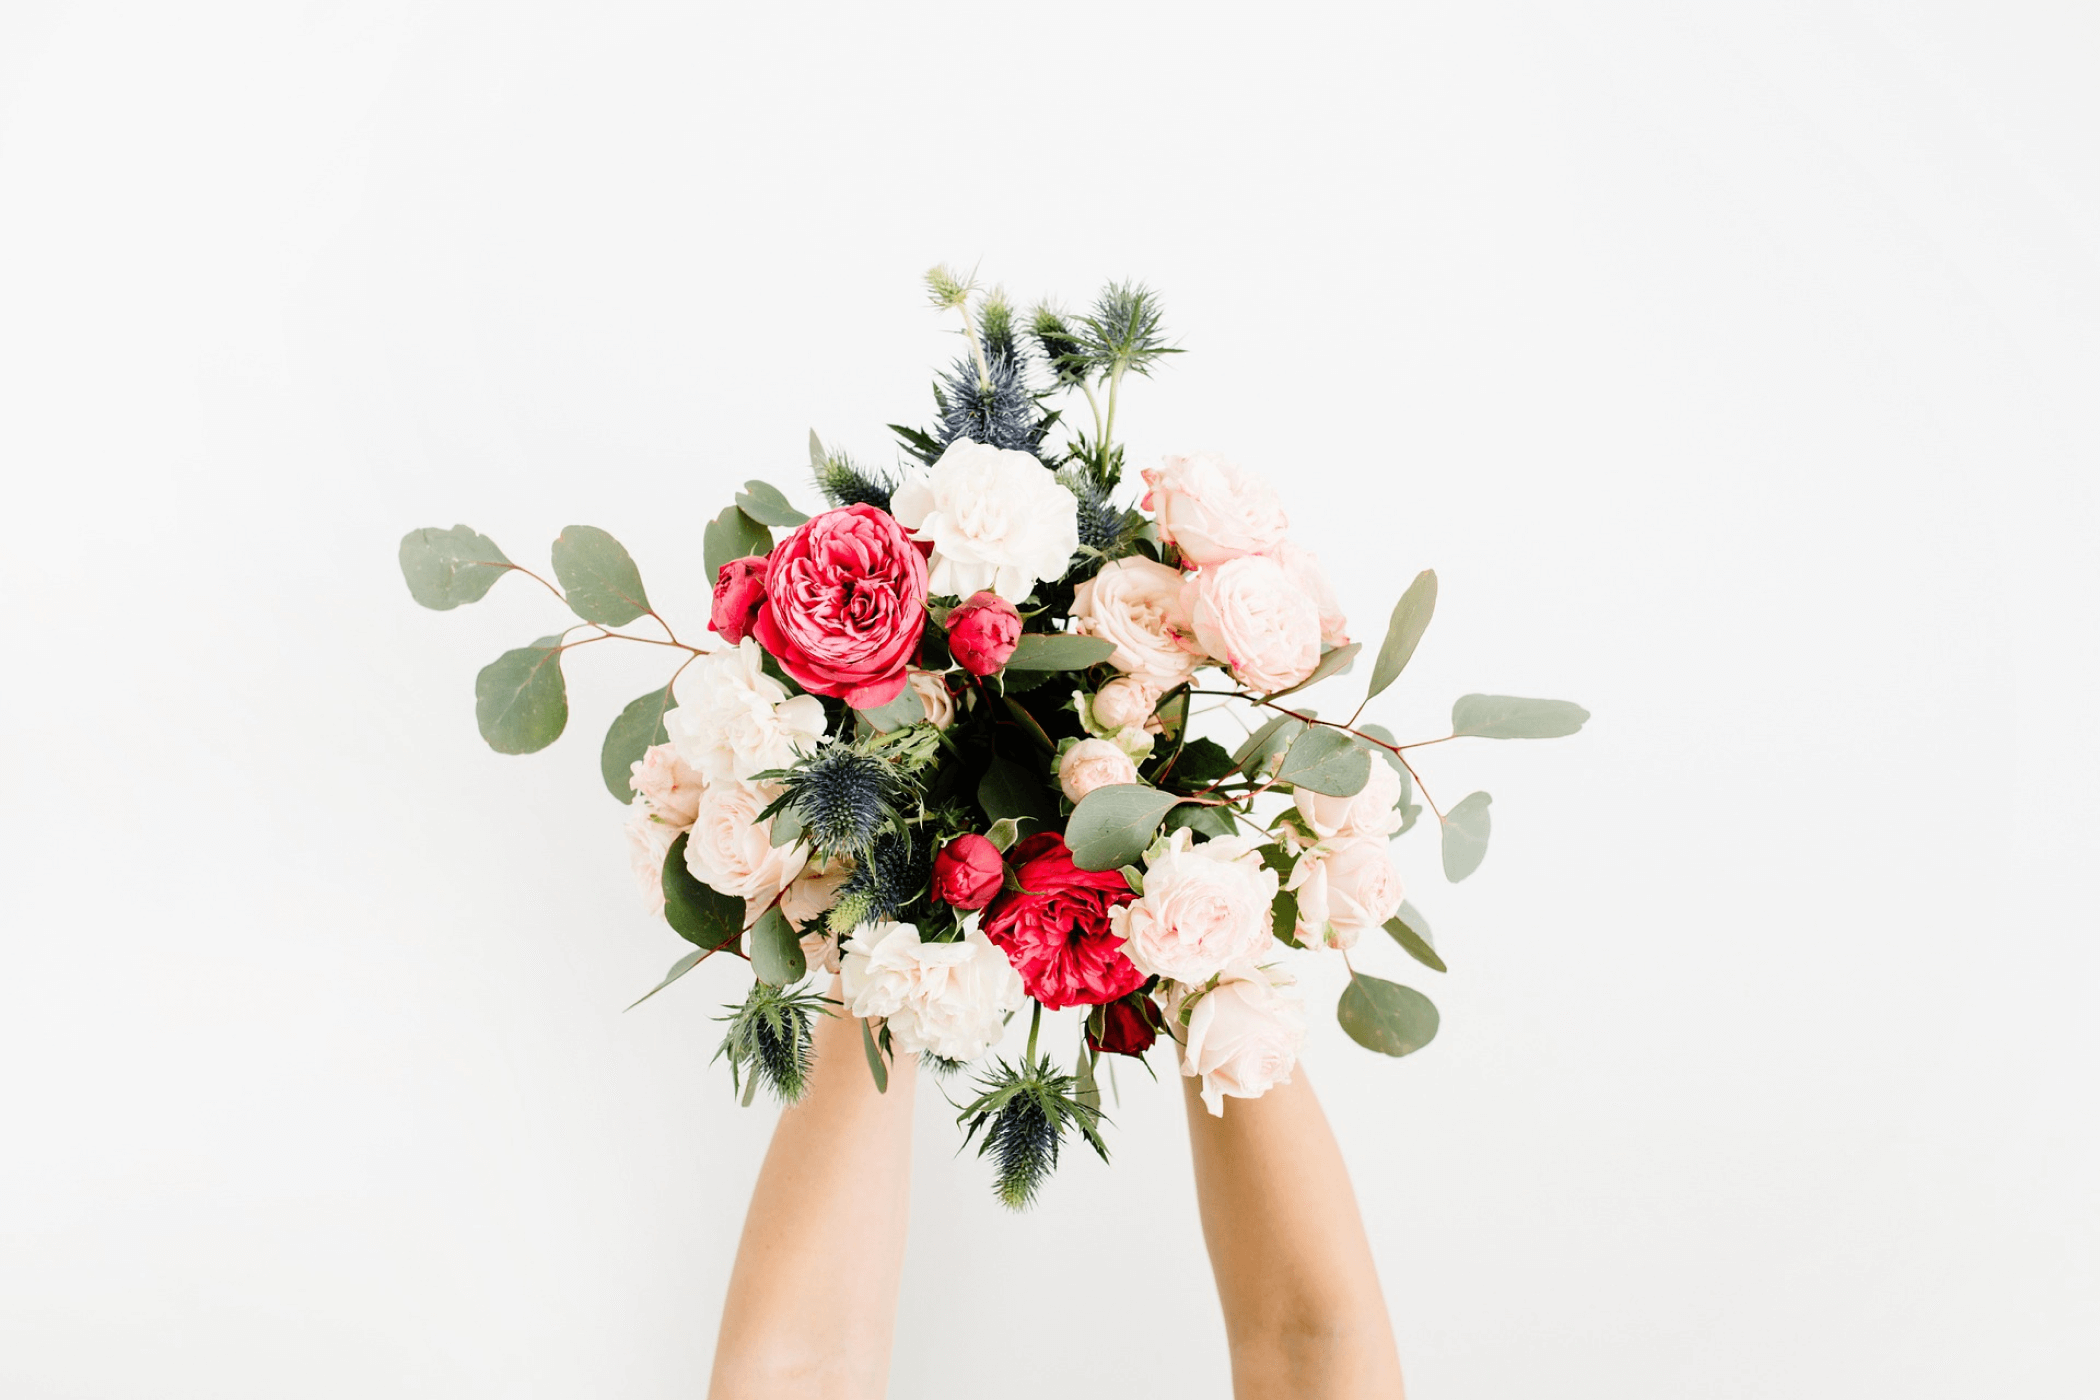
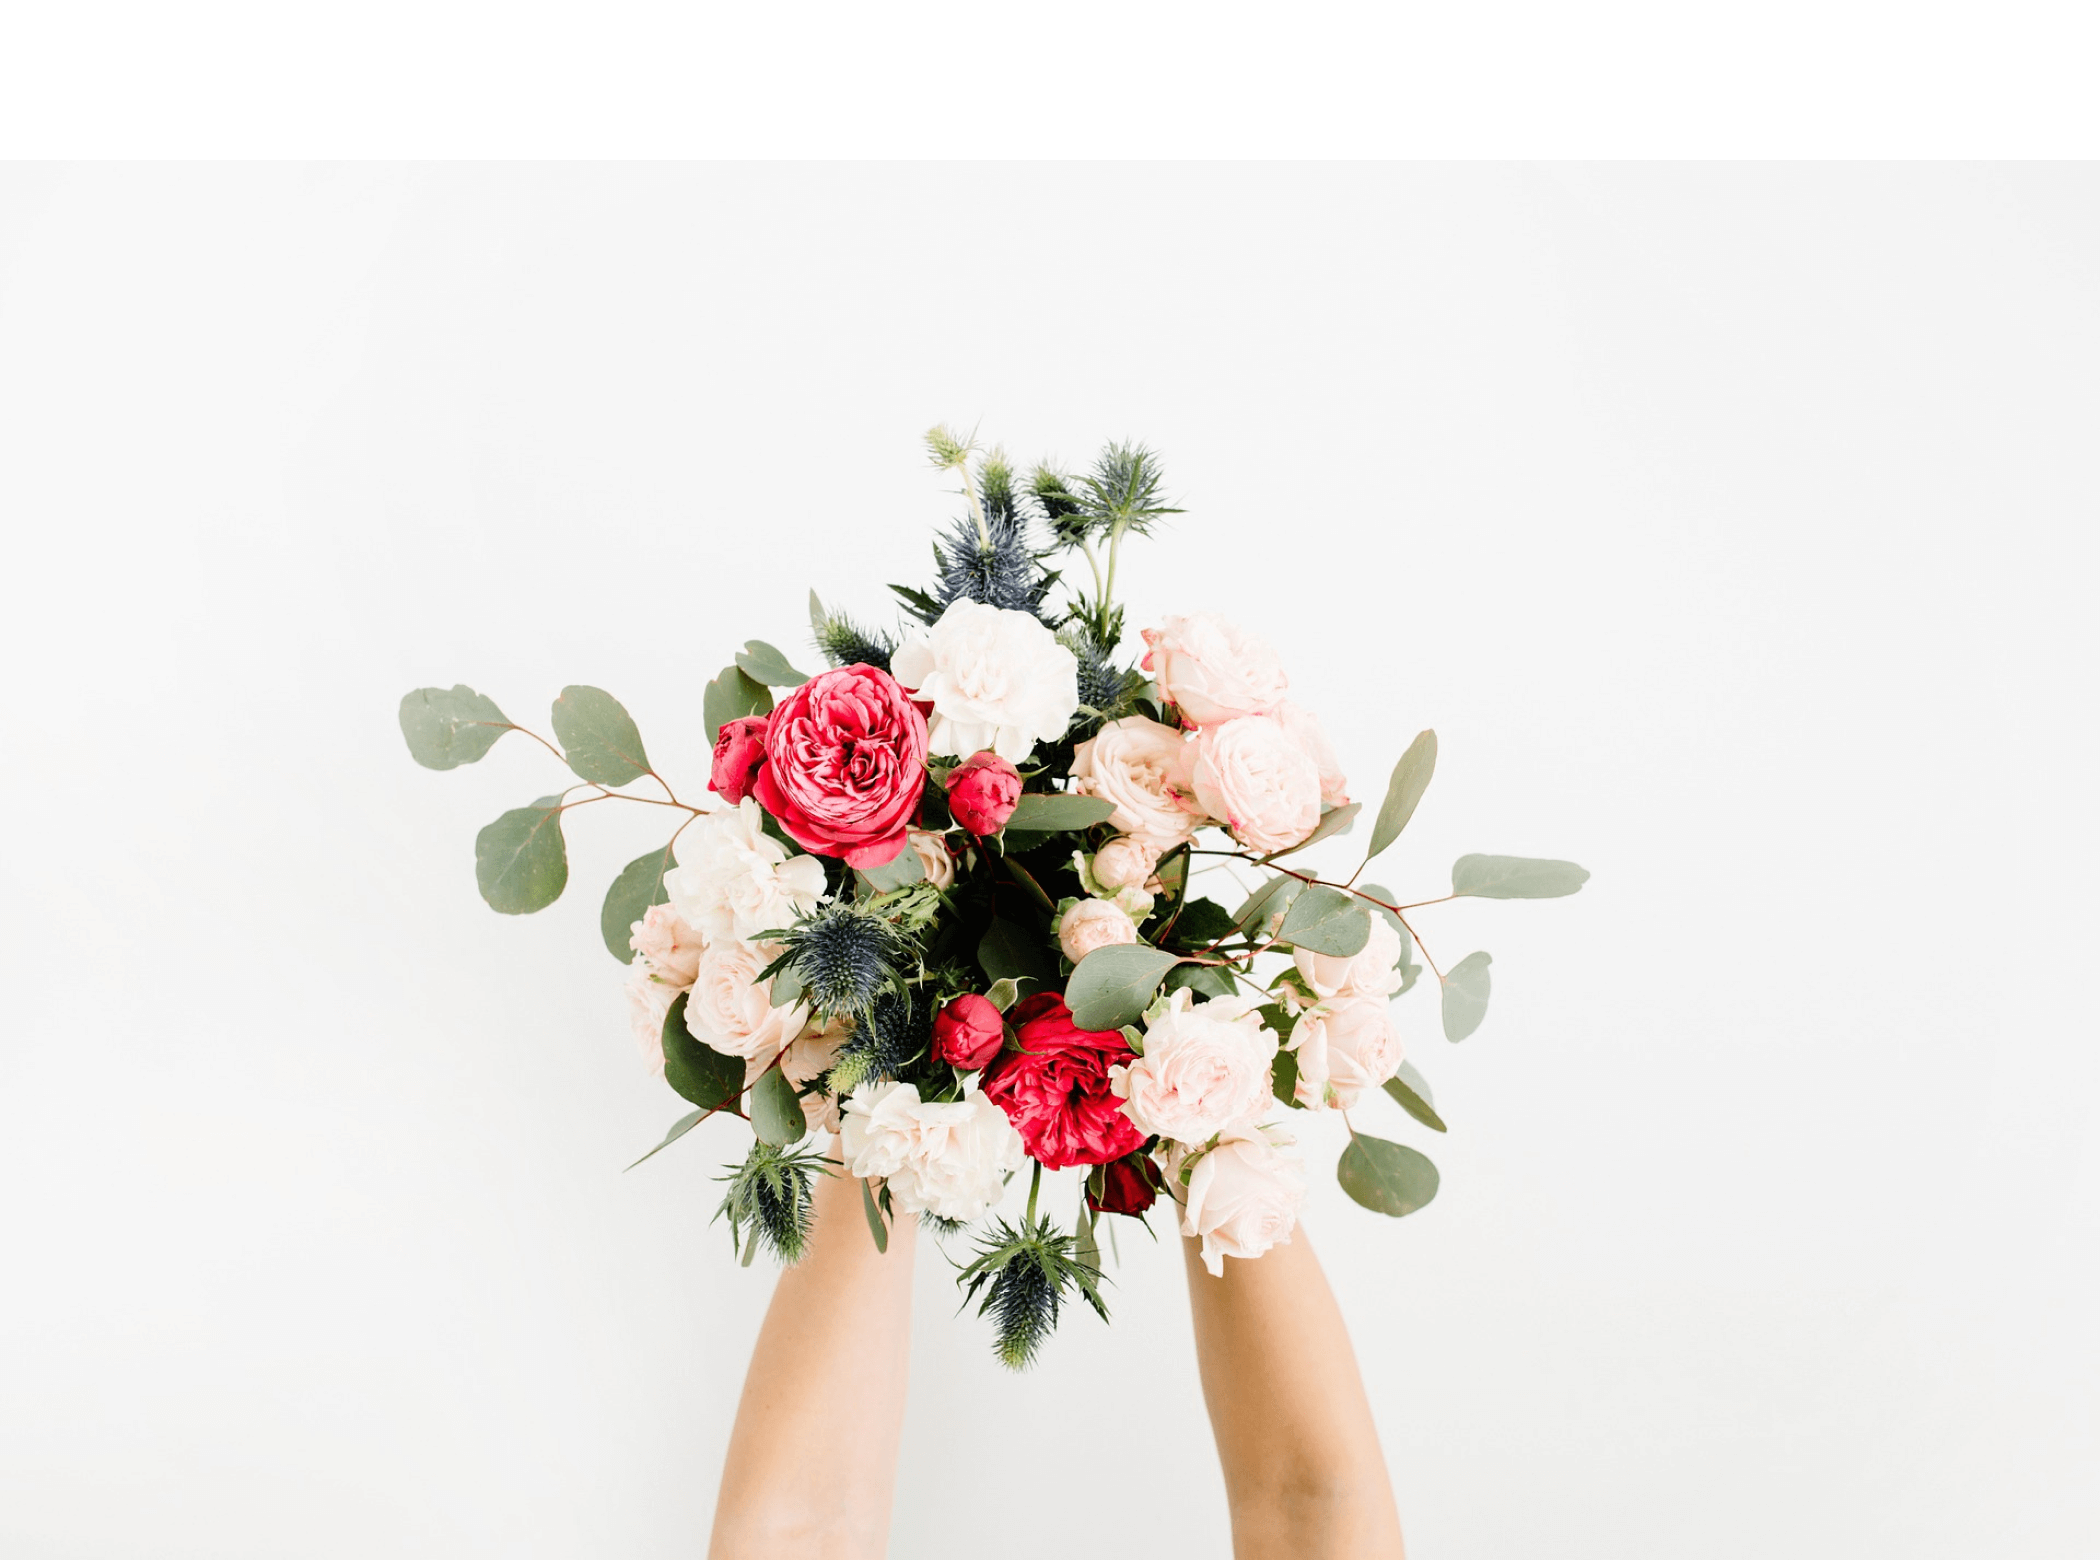
fix-fv

Changed region(s): [[0.1857, 0.1843, 0.7738, 0.8907]]

diff --git a/dev/src/sass/object/project/_fv.scss b/dev/src/sass/object/project/_fv.scss
@@ -11,7 +11,6 @@
 
   @include m.mq("pc") {
     padding: 0;
-    margin-top: -80px;
   }
 
   &__message {
@@ -19,9 +18,8 @@
 
     @include m.mq("pc") {
       position: absolute;
-      top: 50%;
-      transform: translateY(-50%);
-      left: calc(881 / 1440 * 100%);
+      top: calc(283 / 780 * 100%);
+      left: calc(880 / 1440 * 100%);
     }
   }
 
@@ -69,81 +67,26 @@
     font-size: 22px;
     font-weight: 300;
     line-height: normal;
+
+    @include m.mq('pc') {
+      margin-top: 47px;
+      font-size: 30px;
+    }
   }
 
   &__picture {
     margin-top: 37px;
     padding-top: calc(329 / 375 * 100%);
-    background: url(../img/fv-flower.png) no-repeat center center / cover;
+    background: url(../../../../../assets/img/fv-flower.png) no-repeat center center / cover;
 
     @include m.mq("pc") {
-      margin-top: 0;
-      padding-top: calc(700 / 1440 * 100%);
-      background: url(../img/fv-flower.png) no-repeat top left /
-        calc(1050 / 1400 * 100%);
+      margin-top: -160px;
+      padding-top: calc(780 / 1440 * 100%);
+      background: url(../../../../../assets/img/fv-flower.png) no-repeat top left /
+        calc(1050 / 1440 * 100%);
     }
   }
 
-  &__button {
-    margin-top: 37px;
-    text-align: center;
-
-    @include m.mq("pc") {
-      position: absolute;
-      margin-top: 0;
-      left: calc(881 / 1440 * 100%);
-      bottom: calc(131 / 700 * 100%);
-    }
-
-    a {
-      display: inline-block;
-      color: #333;
-      background: #fff;
-      border: 1px solid #333;
-      border-radius: 4px;
-      padding: 10px 58px 5px 29px;
-      font-size: 11px;
-      transition: all 0.3s ease;
-
-      @include m.mq("pc") {
-        padding: 10px 58px 5px 29px;
-        font-size: 20px;
-      }
-
-      p {
-        position: relative;
-        font-size: 16px;
-
-        @include m.mq("pc") {
-          font-size: 30px;
-        }
-
-        &::after {
-          content: "";
-          display: block;
-          position: absolute;
-          background: url(../img/guidance_left-arrow.png) no-repeat center
-            center/contain;
-          width: 13px;
-          height: 13px;
-          right: -20px;
-          top: 50%;
-          transform: translateY(-50%);
-          transition: all 0.3s ease;
-
-          @include m.mq("pc") {
-            width: 24px;
-            height: 24px;
-            right: -37px;
-          }
-        }
-      }
-
-      &:hover {
-        background: #faefec;
-      }
-    }
-  }
 
   &__scrollDown {
     position: absolute;

diff --git a/assets/css/style.css b/assets/css/style.css
@@ -499,7 +499,6 @@ a:hover img {
 @media screen and (min-width: 1240px) {
   .p-fv {
     padding: 0;
-    margin-top: -80px;
   }
 }
 .p-fv__message {
@@ -508,9 +507,8 @@ a:hover img {
 @media screen and (min-width: 1240px) {
   .p-fv__message {
     position: absolute;
-    top: 50%;
-    transform: translateY(-50%);
-    left: 61.1805555556%;
+    top: 36.2820512821%;
+    left: 61.1111111111%;
   }
 }
 .p-fv__title {
@@ -557,76 +555,23 @@ a:hover img {
   font-weight: 300;
   line-height: normal;
 }
-.p-fv__picture {
-  margin-top: 37px;
-  padding-top: 87.7333333333%;
-  background: url(../img/fv-flower.png) no-repeat center center/cover;
-}
 @media screen and (min-width: 1240px) {
-  .p-fv__picture {
-    margin-top: 0;
-    padding-top: 48.6111111111%;
-    background: url(../img/fv-flower.png) no-repeat top left/75%;
-  }
-}
-.p-fv__button {
-  margin-top: 37px;
-  text-align: center;
-}
-@media screen and (min-width: 1240px) {
-  .p-fv__button {
-    position: absolute;
-    margin-top: 0;
-    left: 61.1805555556%;
-    bottom: 18.7142857143%;
-  }
-}
-.p-fv__button a {
-  display: inline-block;
-  color: #333;
-  background: #fff;
-  border: 1px solid #333;
-  border-radius: 4px;
-  padding: 10px 58px 5px 29px;
-  font-size: 11px;
-  transition: all 0.3s ease;
-}
-@media screen and (min-width: 1240px) {
-  .p-fv__button a {
-    padding: 10px 58px 5px 29px;
-    font-size: 20px;
-  }
-}
-.p-fv__button a p {
-  position: relative;
-  font-size: 16px;
-}
-@media screen and (min-width: 1240px) {
-  .p-fv__button a p {
+  .p-fv__sub-title {
+    margin-top: 47px;
     font-size: 30px;
   }
 }
-.p-fv__button a p::after {
-  content: "";
-  display: block;
-  position: absolute;
-  background: url(../img/guidance_left-arrow.png) no-repeat center center/contain;
-  width: 13px;
-  height: 13px;
-  right: -20px;
-  top: 50%;
-  transform: translateY(-50%);
-  transition: all 0.3s ease;
+.p-fv__picture {
+  margin-top: 37px;
+  padding-top: 87.7333333333%;
+  background: url(../../../../../assets/img/fv-flower.png) no-repeat center center/cover;
 }
 @media screen and (min-width: 1240px) {
-  .p-fv__button a p::after {
-    width: 24px;
-    height: 24px;
-    right: -37px;
+  .p-fv__picture {
+    margin-top: -160px;
+    padding-top: 54.1666666667%;
+    background: url(../../../../../assets/img/fv-flower.png) no-repeat top left/72.9166666667%;
   }
-}
-.p-fv__button a:hover {
-  background: #faefec;
 }
 .p-fv__scrollDown {
   position: absolute;

diff --git a/index.html b/index.html
@@ -241,7 +241,7 @@
 
       <!-- .p-flow -->
       <section id="flow" class="p-flow">
-
+        
       </section>
       <!-- /.p-flow -->
 
